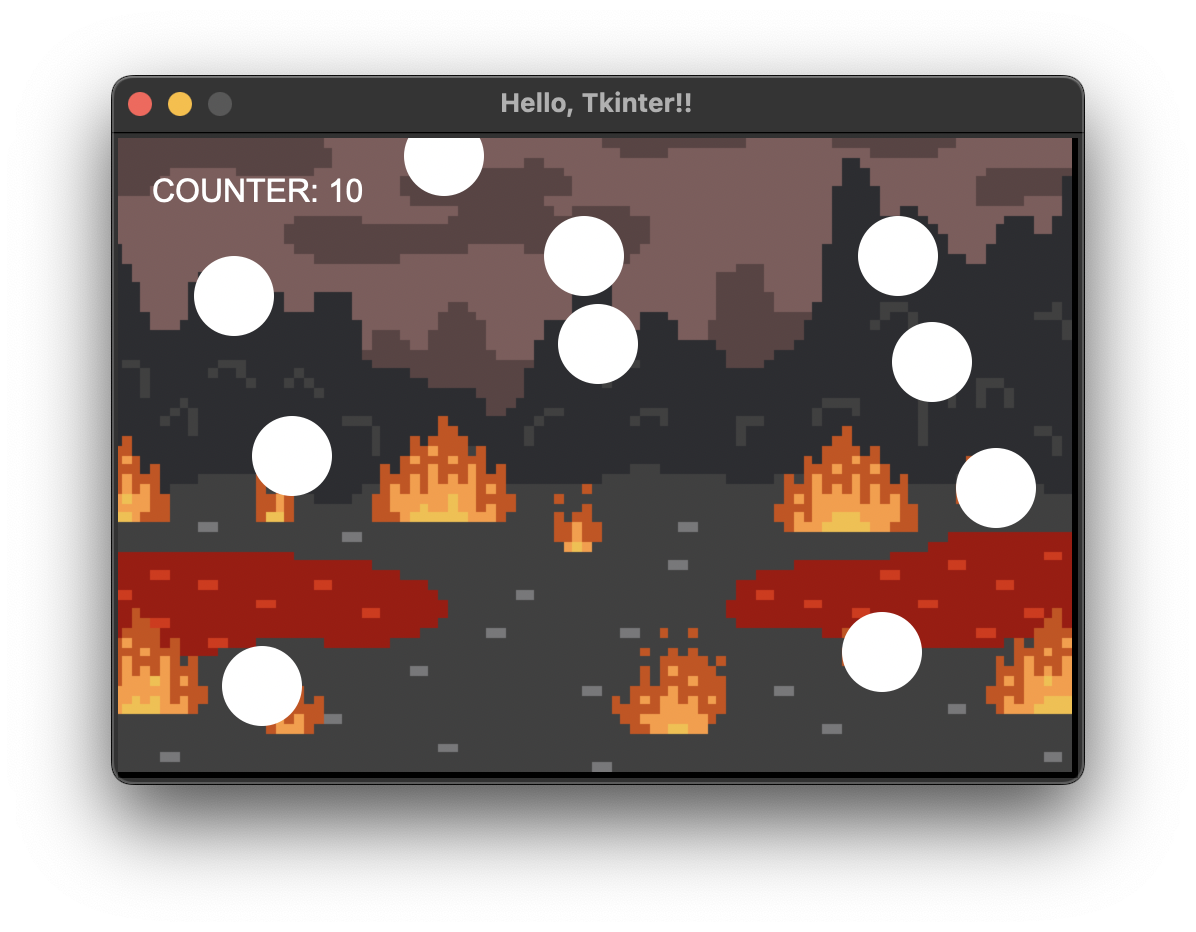
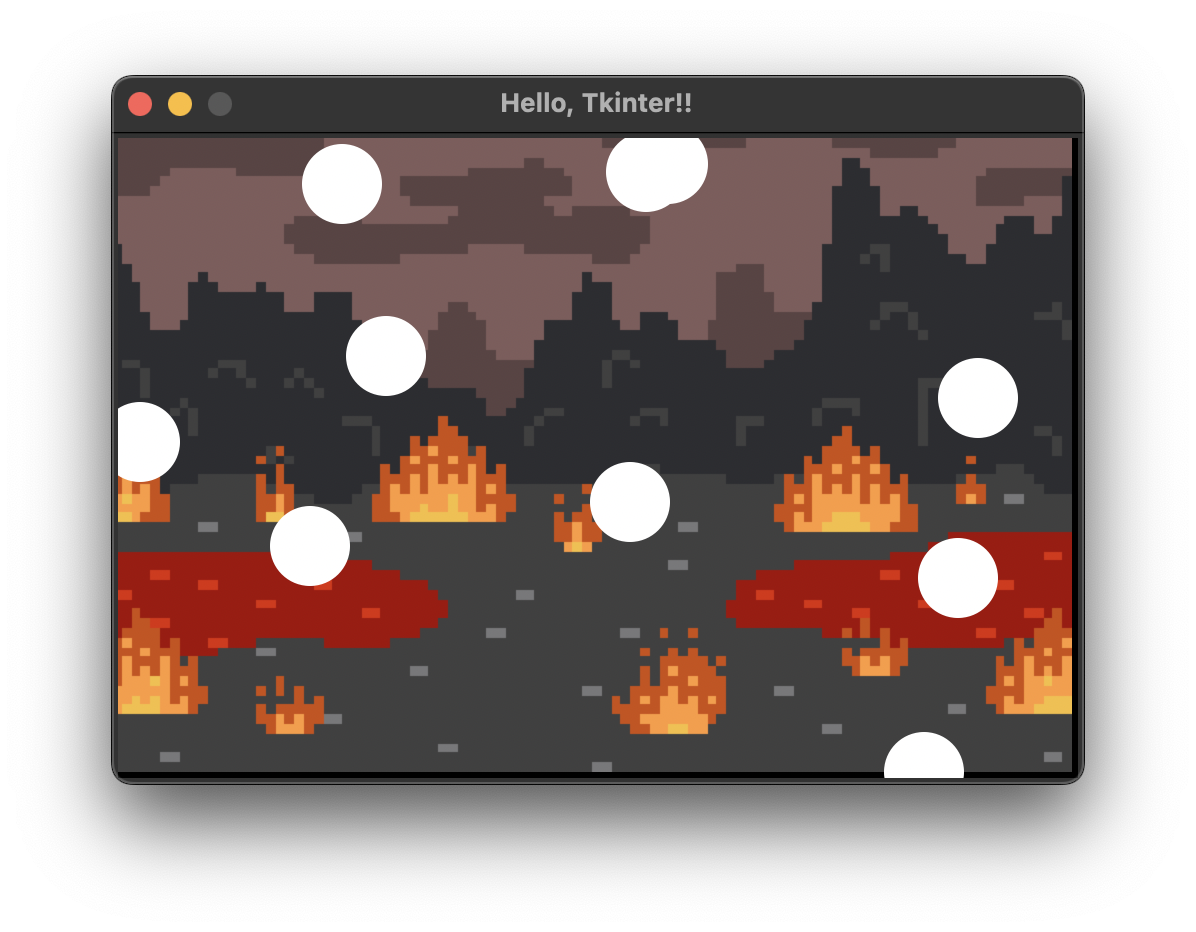
Update

diff --git a/books/0fc9f54eefe9fd/chap04.md b/books/0fc9f54eefe9fd/chap04.md
@@ -38,11 +38,11 @@ title: "第4章: スプライトを作ってみよう"
 | self.r | スプライトの半径 |
 | self.oval | 円を描くオブジェクト |
 
-"self.oval"には、円を描くオブジェクトを格納します。(鬼の画像はしばらく後で登場します)
+"self.oval"には、円を描くオブジェクトを格納します。
 "cvs.create_oval()"メソッドの引数にはそれぞれ、
 円の左上座標(x, y)、円の右下座標(x, y)、"fill"にはカラー、"width"には線の太さ(ここでは0)を指定します。
 
-そして、"update()"メソッドでは、"self.oval"オブジェクトの座標を更新します。
+そして、"update()"メソッドで、"self.oval"オブジェクトの座標を更新します。
 
 ```python:sprite.py
 import math
@@ -88,9 +88,6 @@ TOTAL_DEMONS = 10
 
 # 鬼軍団
 demons = []
-
-# 鬼カウンタ
-counter = TOTAL_DEMONS
 ```
 
 "init()"関数(初期化関数)では、生成した鬼スプライトを、"demons"(鬼軍団)リストに追加します。
@@ -115,8 +112,7 @@ def init():
         demons.append(demon) # リストに追加
 ```
 
-"update()"関数(更新関数)では、"counter"(残りの鬼の数)をゲーム画面左上に描画します。
-そして、"demons"(鬼軍団)リストから鬼スプライトそれぞれで"demon.update()"メソッドを実行します。
+"update()"関数(更新関数)では、"demons"(鬼軍団)リストの鬼スプライトそれぞれで"demon.update()"メソッドを実行します。
 
 ```python:main.py(抜粋)
 def update():
@@ -127,18 +123,12 @@ def update():
     cvs.create_text(mx, my, text=msg,
                     fill="white", font=FONT, tag="hud")
 
-    # 鬼カウンタを描画
-    msg = "COUNTER: {}".format(counter)
-    cvs.create_text(20, 20, text=msg,
-                    fill="white", font=FONT, tag="hud", anchor="nw")
-
     # 鬼軍団
     for demon in demons:
         demon.update(cvs) # 鬼スプライトを更新
 
     # 画面更新
-    if 0 < counter:
-        root.after(30, update)
+    root.after(30, update)
 ```
 
 この時点で実行すると、ゲーム画面に10個のスプライト(白い円)が描画されます。
@@ -193,9 +183,6 @@ TOTAL_DEMONS = 10
 # 鬼軍団
 demons = []
 
-# 鬼カウンタ
-counter = TOTAL_DEMONS
-
 def init():
     """ 初期化関数 """
     global bg_photo, bg_image
@@ -218,18 +205,12 @@ def update():
     cvs.create_text(mx, my, text=msg,
                     fill="white", font=FONT, tag="hud")
 
-    # 鬼カウンタを描画
-    msg = "COUNTER: {}".format(counter)
-    cvs.create_text(20, 20, text=msg,
-                    fill="white", font=FONT, tag="hud", anchor="nw")
-
     # 鬼軍団
     for demon in demons:
         demon.update(cvs) # 鬼スプライトを更新
 
     # 画面更新
-    if 0 < counter:
-        root.after(30, update)
+    root.after(30, update)
 
 def on_mouse_clicked(e):
     global counter

diff --git a/books/0fc9f54eefe9fd/chap05.md b/books/0fc9f54eefe9fd/chap05.md
@@ -1,0 +1,21 @@
+---
+title: "第5章: スプライトを動かしてみよう"
+---
+
+# スプライトを動かしてみよう
+
+今回は、"スプライトの動き"についてです。
+
+## 1, xxx
+
+xxx
+
+```python:sprite.py
+
+```
+
+# 次回は...
+
+ここまで読んでいただき有り難うございました。
+次回のタイトルは「xxxしてみよう」です。
+お楽しみに!!
